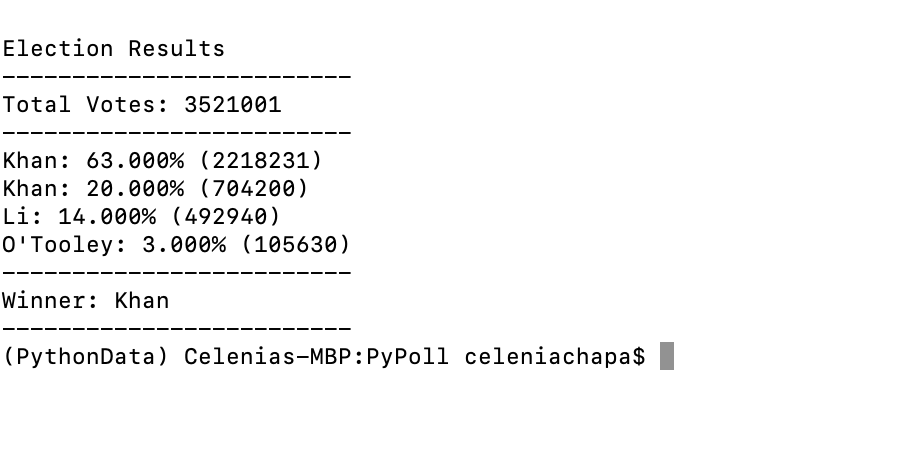
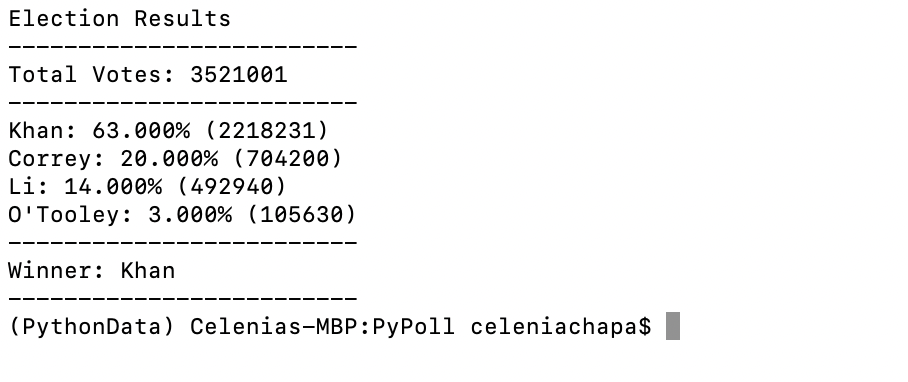
fixing name typo

Changed region(s): [[0.0, 0.0288, 0.4009, 0.6047], [0.0, 0.6335, 0.7709, 0.8927]]

diff --git a/PyPoll/main.py b/PyPoll/main.py
@@ -64,7 +64,7 @@ with open(file_to_output, "w") as txt_file:
       f"Total Votes: {total_votes}\n"
       f"-------------------------\n"
       f"Khan: {khan_cent} ({khan_results})\n"
-      f"Khan: {correy_cent} ({correy_results})\n"
+      f"Correy: {correy_cent} ({correy_results})\n"
       f"Li: {li_cent} ({li_results})\n"
       f"O'Tooley: {otooley_cent} ({otooley_results})\n"
       f"-------------------------\n"
